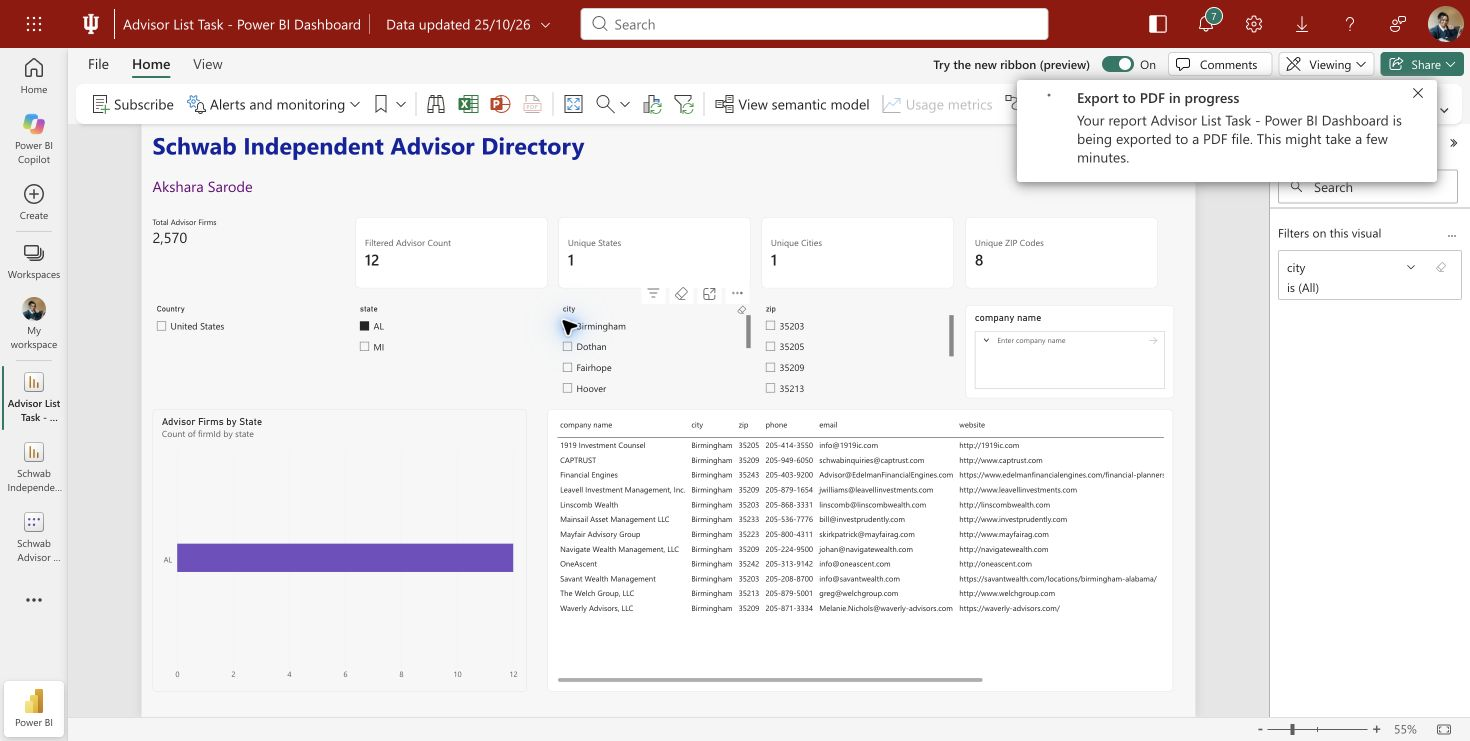
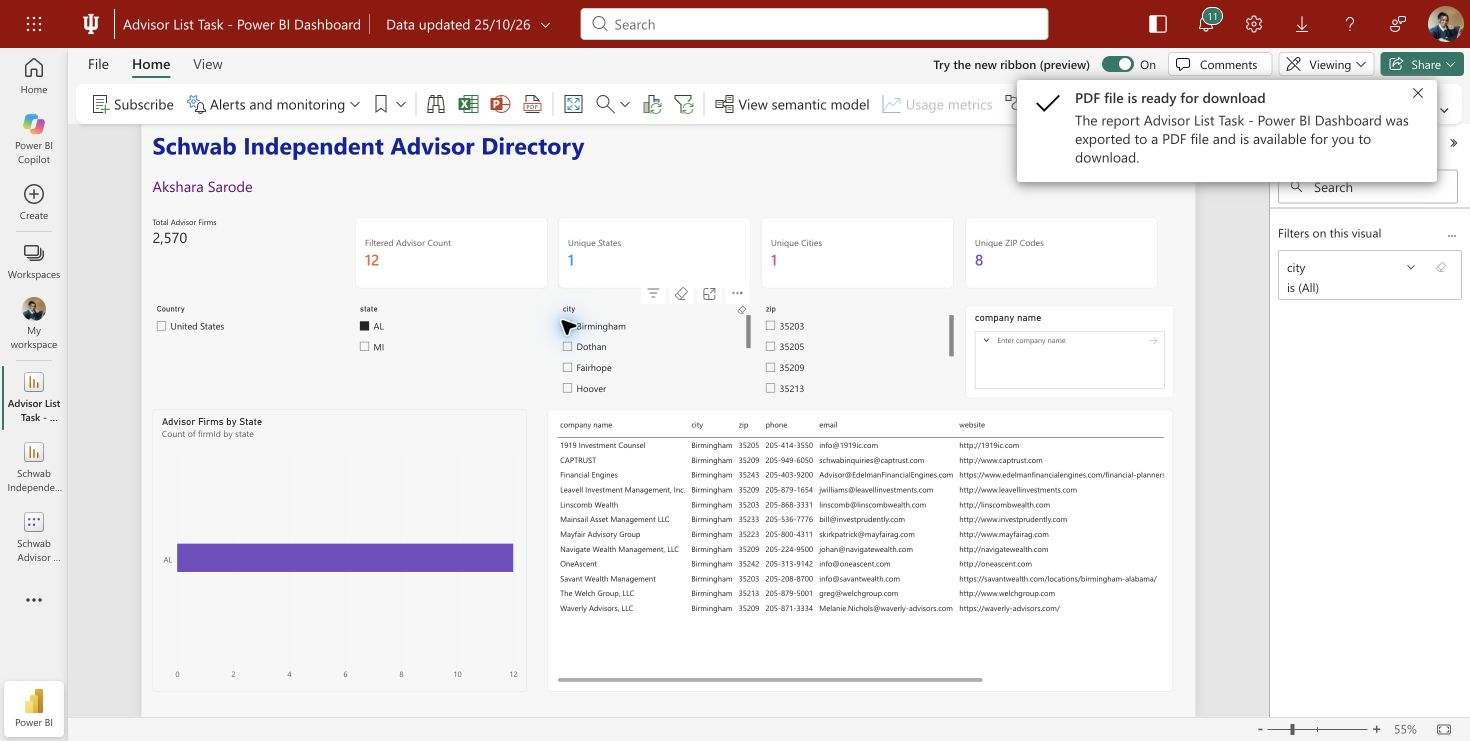
Add final colored Power BI report

diff --git a/README.md b/README.md
@@ -16,7 +16,7 @@ Source: `Submission File (Akshara).xlsx`, populated sheet `Schwab database`. The
 
 The top row shows total advisor firms, filtered advisor count, unique states, unique city names, and unique ZIP codes. With no filters applied, these are 2,570 firms, 2,570 filtered firms, 51 states (including DC), 1,314 city names, and 2,133 ZIP codes. The total-firms figure is a fixed snapshot label for this imported dataset; update it if the source is replaced. The other four cards recalculate when filters change.
 
-The report title is **Schwab Independent Advisor Directory**, with **Akshara Sarode** beneath it. A purple horizontal bar chart ranks states by distinct advisor firm IDs and responds to the same filters. The title and chart use blue and purple accents.
+The report title is **Schwab Independent Advisor Directory**, with **Akshara Sarode** beneath it. A purple horizontal bar chart ranks states by distinct advisor firm IDs and responds to the same filters. The title and KPI values use blue, light orange, pink, and purple accents.
 
 Country, State, City, and ZIP are slicers on the same `Advisor Locations` table. Select a value in one slicer to narrow the available choices and the results in the others. The company-name input slicer uses a contains search; type a term and click its apply arrow. Clear selections to return to the full list.
 
